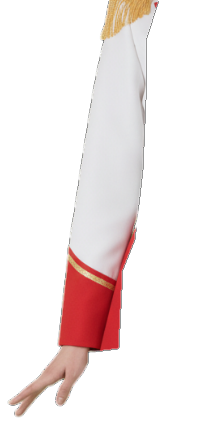
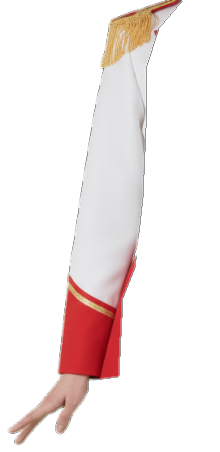
feat(rig-foto): codo en bisagra con angulo marcado y hombro completo en el brazo
El brazo incluye hombrera y caida del hombro (el torso no conserva nada); el codo es una
bisagra de dos tramos rigidos con un disco del color de la manga que tapa la cuna.

Changed region(s): [[0.0545, 0.0, 0.8455, 1.0], [0.5455, 0.7358, 0.5727, 0.7665], [0.3, 0.9198, 0.3273, 0.9505]]

diff --git a/lienzo/titere-rig.js b/lienzo/titere-rig.js
@@ -32,7 +32,7 @@ const TRAJES_RIG = {
 const RIG_FOTO = path.join(__dirname, '..', 'assets', 'foto-rig');
 try { const m = JSON.parse(fs.readFileSync(path.join(RIG_FOTO, 'rig.json'), 'utf8')), pv = m.cabeza.pivoteY;
   TRAJES_RIG['bastonera-foto'] = { dir: RIG_FOTO, piezas: ['cabeza', 'pelo', 'torso', 'brazo-abierto', 'piernas'], torso: 'torso', falda: null, brazos: ['brazo-abierto', 'brazo-abierto'], piernas: true, piernasJuntas: true, cabezaAntes: true,
-    cabeza: { x: 0, y: 26, px: 0.5, py: pv }, pelo: { x: 0, y: 26, px: 0.5, py: pv }, torsoPiv: { px: 0.5, py: 0 }, hombro: { x: m.CX - m.EJE_BRAZO, y: m.Y_HOMBRO + m.PIV_Y }, cadera: { x: 0, y: m.Y_CADERA - 2 }, pies: m.cuerpo.H, alto: m.cuerpo.H + m.cabeza.neckY + 4, long: m.largo, brazoPivY: m.PIV_Y, codoSuave: true, caraFoto: m.cabeza.cara };
+    cabeza: { x: 0, y: 26, px: 0.5, py: pv }, pelo: { x: 0, y: 26, px: 0.5, py: pv }, torsoPiv: { px: 0.5, py: 0 }, hombro: { x: m.CX - m.EJE_BRAZO, y: m.Y_HOMBRO + m.PIV_Y }, cadera: { x: 0, y: m.Y_CADERA - 2 }, pies: m.cuerpo.H, alto: m.cuerpo.H + m.cabeza.neckY + 4, long: m.largo, brazoPivY: m.PIV_Y, codoFrac: m.codoFrac, codoDuro: true, caraFoto: m.cabeza.cara };
   } catch { /* sin piezas de foto: el traje no existe */ }
 const ANCLAS_FOTO = { ojoY: 0.01, ojoDx: 0.17, ojoR: 0.058, bocaY: 0.33, bocaAncho: 0.118, cejaY: -0.075 }; // medidas sobre la foto de la cabeza ficticia (misma que usa recortes.muneco)
 const LONG = { sup: 150, ant: 118 }; // brazo superior y antebrazo hasta el centro de la mano (píxeles del armado)
@@ -92,6 +92,9 @@ function titereRig({ traje = 'bastonera', cx = 0.5, base = 0.9, alto = 0.5, esca
     async preparar() {
       for (const n of R.piezas) img[n] = await loadImage(fs.readFileSync(path.join(DIR, n + '.png')));
       for (const n of new Set([...accesorios.map(a => ACCESORIOS[a.id].archivo), ...pegatinas.map(p => p.id)])) imgs[n] = await piezaKit(n, 'plastilina');
+      if (R.codoDuro) { const im = img[R.brazos[0]], fy = Math.round(im.height * R.codoFrac), cv2 = require('@napi-rs/canvas').createCanvas(im.width, 5), x2 = cv2.getContext('2d'); x2.drawImage(im, 0, fy - 2, im.width, 5, 0, 0, im.width, 5);
+        const dd = x2.getImageData(0, 0, im.width, 5).data; let r0 = 0, g0 = 0, b0 = 0, n0 = 0, mn = 1e9, mx = -1; for (let yy = 0; yy < 5; yy++) for (let xx = 0; xx < im.width; xx++) { const o = (yy * im.width + xx) * 4; if (dd[o + 3] > 250 && dd[o] > 190 && Math.abs(dd[o] - dd[o + 2]) < 16) { r0 += dd[o]; g0 += dd[o + 1]; b0 += dd[o + 2]; n0++; if (xx < mn) mn = xx; if (xx > mx) mx = xx; } }
+        if (n0) R.codoInfo = { col: `rgb(${Math.round(r0 / n0)},${Math.round(g0 / n0)},${Math.round(b0 / n0)})`, r: (mx - mn) / 2 }; }
       if (R.caraFoto) { // cara de FOTO: se borran ojos y boca reales y se dibujan expresiones y habla encima (recortes.dibujarExpresion con la cabeza como fuente del tono de piel)
         const k = R.caraFoto, im = img.cabeza, cw = Math.ceil(2 * Math.max(k.cx, im.width - k.cx)), chh = Math.ceil(2 * Math.max(k.cy, im.height - k.cy)), cc = require('@napi-rs/canvas').createCanvas(cw, chh);
         cc.getContext('2d').drawImage(im, cw / 2 - k.cx, chh / 2 - k.cy); cabCara = cc;
@@ -133,14 +136,17 @@ function titereRig({ traje = 'bastonera', cx = 0.5, base = 0.9, alto = 0.5, esca
       if (R.falda) dib(img[R.falda], R.faldaPos.x, R.faldaPos.y, R.faldaPos.px, R.faldaPos.py, Math.sin(tAbs * 2.4) * 0.02 - giro, false);
       // 3) torso y brazos (en reposo los brazos van delante del torso; en gestos de cara, también delante de la cabeza)
       const brazo = (lado, s, c, mano) => { // lado -1 = izquierda de la pantalla; s, c en grados (+ hacia afuera / + doblar hacia el cuerpo)
-        const im = img[mano === 'puno' ? R.brazos[1] : R.brazos[0]], wB = im.width, hB = im.height, cod = hB * 0.5;
+        const im = img[mano === 'puno' ? R.brazos[1] : R.brazos[0]], wB = im.width, hB = im.height, cod = hB * (R.codoFrac ?? 0.5);
         ctx.save(); ctx.translate(lado * R.hombro.x, R.hombro.y - subir); if (lado > 0) ctx.scale(-1, 1); // espejo para el derecho: mismas convenciones
         ctx.rotate(s * GRAD);
         B.sombraDeCapa(ctx, u / e, 0.35, 0);
-        if (R.codoSuave) { // codo suave: el brazo se dibuja en rebanadas finas y el giro del codo se reparte en una zona, sin corte recto
-          const ZB = hB * 0.13, y0 = cod - ZB, y1 = cod + ZB, paso = 1; ctx.translate(-wB / 2, -(R.brazoPivY ?? hB * 0.03)); ctx.rotate(0);
-          for (let y = 0; y < hB; y += paso) { const sh = Math.min(paso, hB - y), w1 = y >= y0 && y < y1 ? paso / (y1 - y0) : 0;
-            ctx.drawImage(im, 0, y, wB, Math.min(sh + 2, hB - y), 0, 0, wB, Math.min(sh + 2, hB - y)); ctx.translate(wB / 2, sh); ctx.rotate(-c * GRAD * w1); ctx.translate(-wB / 2, 0); }
+        if (R.codoDuro) { // codo en bisagra: dos tramos rígidos con ángulo marcado; un disco del color de la manga tapa la cuña que abre la esquina
+          const piv = R.brazoPivY ?? 0, ci = R.codoInfo || { col: '#e8e8e8', r: wB * 0.3 };
+          ctx.translate(-wB / 2, -piv);
+          if (Math.abs(c) > 10) { ctx.beginPath(); ctx.arc(wB / 2, cod, ci.r * 0.9, 0, Math.PI * 2); ctx.fillStyle = ci.col; ctx.fill(); } // relleno de la esquina, debajo de los dos tramos
+          ctx.save(); ctx.beginPath(); ctx.rect(0, 0, wB, cod + 2); ctx.clip(); ctx.drawImage(im, 0, 0); ctx.restore(); // brazo superior (con todo el hombro)
+          ctx.save(); ctx.translate(wB / 2, cod); ctx.rotate(-c * GRAD); ctx.translate(-wB / 2, -cod);
+          ctx.save(); ctx.beginPath(); ctx.rect(0, cod - 2, wB, hB - cod + 4); ctx.clip(); ctx.drawImage(im, 0, 0); ctx.restore(); ctx.restore(); // antebrazo y mano
           B.sinSombra(ctx); ctx.restore(); return;
         }
         // brazo superior (mitad de arriba) y antebrazo con mano (mitad de abajo, un poco solapadas), girando en el codo

diff --git a/scripts/kit-foto-rig.js b/scripts/kit-foto-rig.js
@@ -7,7 +7,7 @@ const { createCanvas, loadImage } = require('@napi-rs/canvas');
 const KIT = path.join(__dirname, '..', 'assets', 'kit'), SAL = path.join(__dirname, '..', 'assets', 'foto-rig');
 const interp = (pts, y) => { if (y <= pts[0][0]) return pts[0][1]; for (let i = 1; i < pts.length; i++) if (y <= pts[i][0]) { const [y0, v0] = pts[i - 1], [y1, v1] = pts[i]; return v0 + (v1 - v0) * (y - y0) / (y1 - y0); } return pts[pts.length - 1][1]; };
 // borde interior del brazo izquierdo (el que da al torso) por fila; el derecho es el espejo respecto al eje x = CX
-const CX = 221, BORDE = [[50, 152], [88, 140], [150, 139], [220, 136], [290, 128], [320, 116], [398, 112], [402, 82], [470, 82]], Y_HOMBRO = 50, PIV_Y = 16, Y_MANO = 470, Y_CADERA = 458;
+const CX = 221, BORDE = [[22, 176], [50, 152], [88, 140], [150, 139], [220, 136], [290, 128], [320, 116], [398, 112], [402, 82], [470, 82]], Y_HOMBRO = 22, PIV_Y = 40, Y_CODO = 280, Y_MANO = 470, Y_CADERA = 458;
 const EJE_BRAZO = 104; // x del eje del brazo (centro de la manga) en la foto
 
 function pixeles(img) { const c = createCanvas(img.width, img.height), x = c.getContext('2d'); x.drawImage(img, 0, 0); return { c, x, id: x.getImageData(0, 0, img.width, img.height) }; }
@@ -27,7 +27,7 @@ async function cuerpo() {
   cx.putImageData(cid, 0, 0); guardar(core, 'torso');
   // brazo (el izquierdo de la foto), recortado y centrado en su eje; el derecho se obtiene espejando este
   const aw = 2 * (EJE_BRAZO + 6), ah = Y_MANO - Y_HOMBRO + 4, br = createCanvas(aw, ah), bx = br.getContext('2d'), bid = bx.createImageData(aw, ah);
-  for (let y = Y_HOMBRO; y < Y_HOMBRO + ah; y++) for (let x = 0; x < EJE_BRAZO + 50; x++) { if (!dentroBrazoI(x, y)) continue; const ox = x - EJE_BRAZO + aw / 2, oy = y - Y_HOMBRO; if (ox < 0 || ox >= aw) continue; const i = (y * W + x) * 4, o = (oy * aw + ox) * 4; bid.data[o] = d[i]; bid.data[o + 1] = d[i + 1]; bid.data[o + 2] = d[i + 2]; bid.data[o + 3] = d[i + 3]; }
+  for (let y = Y_HOMBRO; y < Y_HOMBRO + ah; y++) for (let x = 0; x < EJE_BRAZO + 80; x++) { if (!dentroBrazoI(x, y)) continue; const ox = x - EJE_BRAZO + aw / 2, oy = y - Y_HOMBRO; if (ox < 0 || ox >= aw) continue; const i = (y * W + x) * 4, o = (oy * aw + ox) * 4; bid.data[o] = d[i]; bid.data[o + 1] = d[i + 1]; bid.data[o + 2] = d[i + 2]; bid.data[o + 3] = d[i + 3]; }
   bx.putImageData(bid, 0, 0); guardar(br, 'brazo-abierto'); guardar(br, 'brazo-puno');
   // piernas: desde justo bajo el dobladillo hasta las botas; en las filas de las manos solo la zona central
   const lg = createCanvas(W, H - Y_CADERA), lx = lg.getContext('2d'), lid = lx.createImageData(W, H - Y_CADERA);
@@ -65,6 +65,6 @@ async function cabeza() {
 (async () => {
   fs.mkdirSync(SAL, { recursive: true });
   const c = await cuerpo(), h = await cabeza();
-  fs.writeFileSync(path.join(SAL, 'rig.json'), JSON.stringify({ descripcion: 'Piezas del rig de fotos (cuerpo FICTICIO genérico + cabeza FICTICIA). Coordenadas en píxeles de estas piezas.', cuerpo: c, cabeza: h, CX, EJE_BRAZO, Y_HOMBRO, PIV_Y, Y_MANO, Y_CADERA, largo: { sup: Math.round((Y_MANO - Y_HOMBRO + 4) / 2 - PIV_Y), ant: Math.round(Y_MANO - 30 - (Y_HOMBRO + (Y_MANO - Y_HOMBRO + 4) / 2)) } }, null, 2));
+  fs.writeFileSync(path.join(SAL, 'rig.json'), JSON.stringify({ descripcion: 'Piezas del rig de fotos (cuerpo FICTICIO genérico + cabeza FICTICIA). Coordenadas en píxeles de estas piezas.', cuerpo: c, cabeza: h, CX, EJE_BRAZO, Y_HOMBRO, PIV_Y, Y_CODO, Y_MANO, Y_CADERA, codoFrac: (Y_CODO - Y_HOMBRO) / (Y_MANO - Y_HOMBRO + 4), largo: { sup: Y_CODO - Y_HOMBRO - PIV_Y, ant: Y_MANO - 30 - Y_CODO } }, null, 2));
   console.log('listo', SAL, JSON.stringify(h));
 })().catch(e => { console.error('FALLO', e); process.exit(1); });
